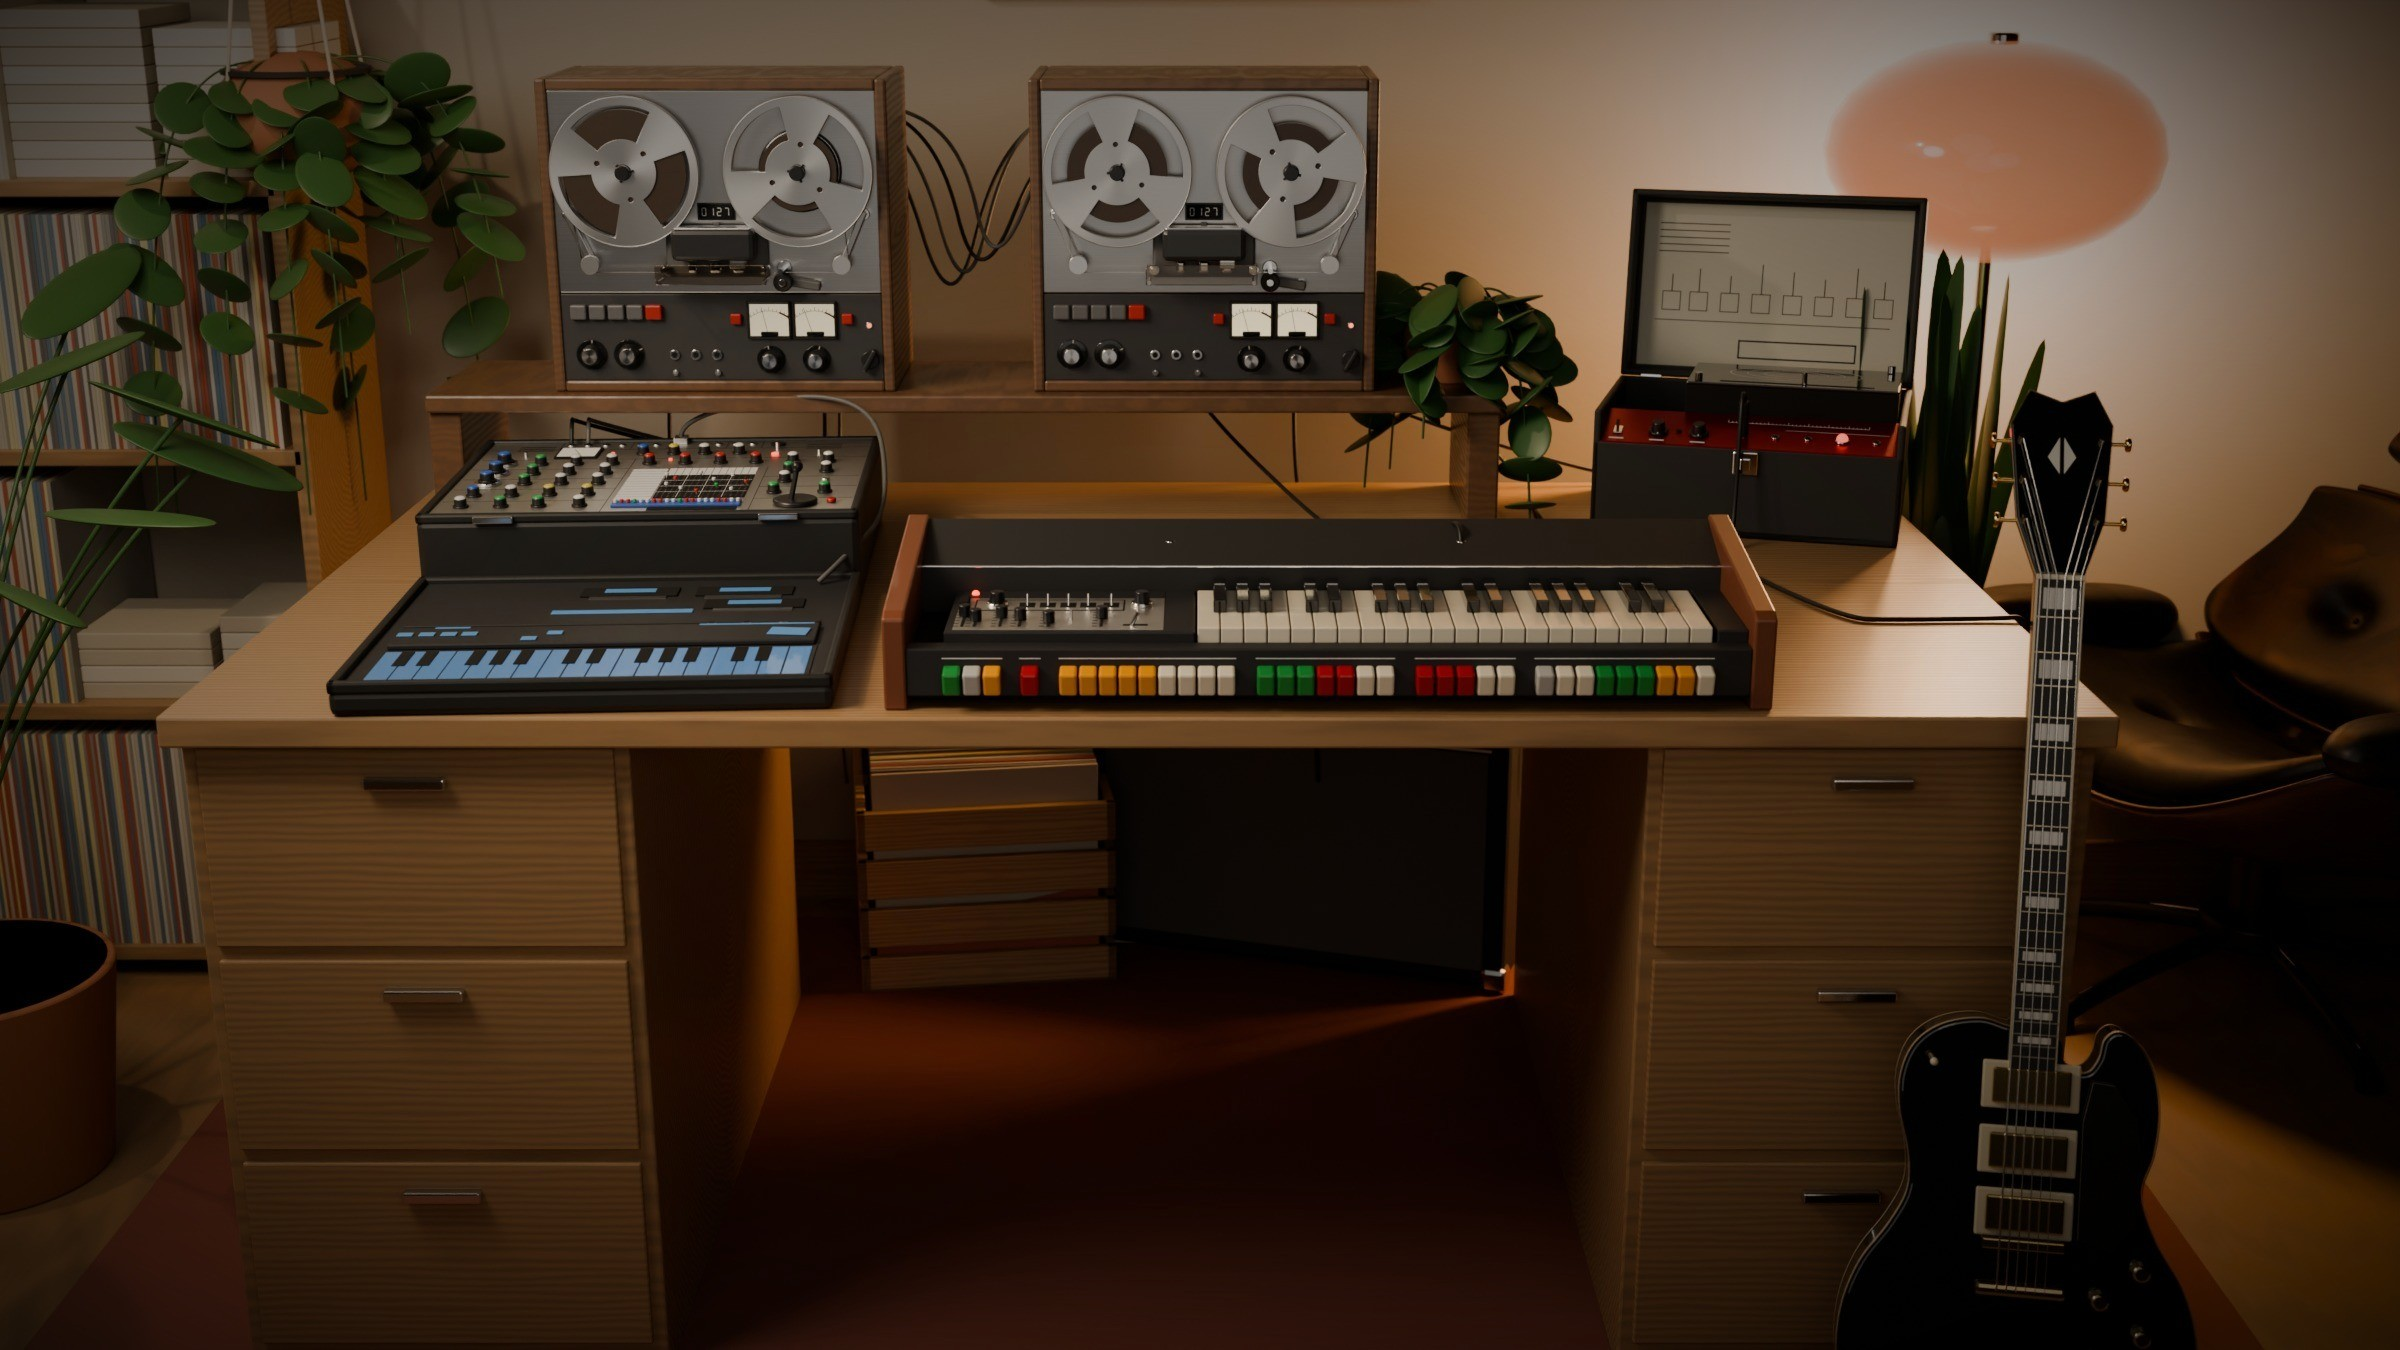
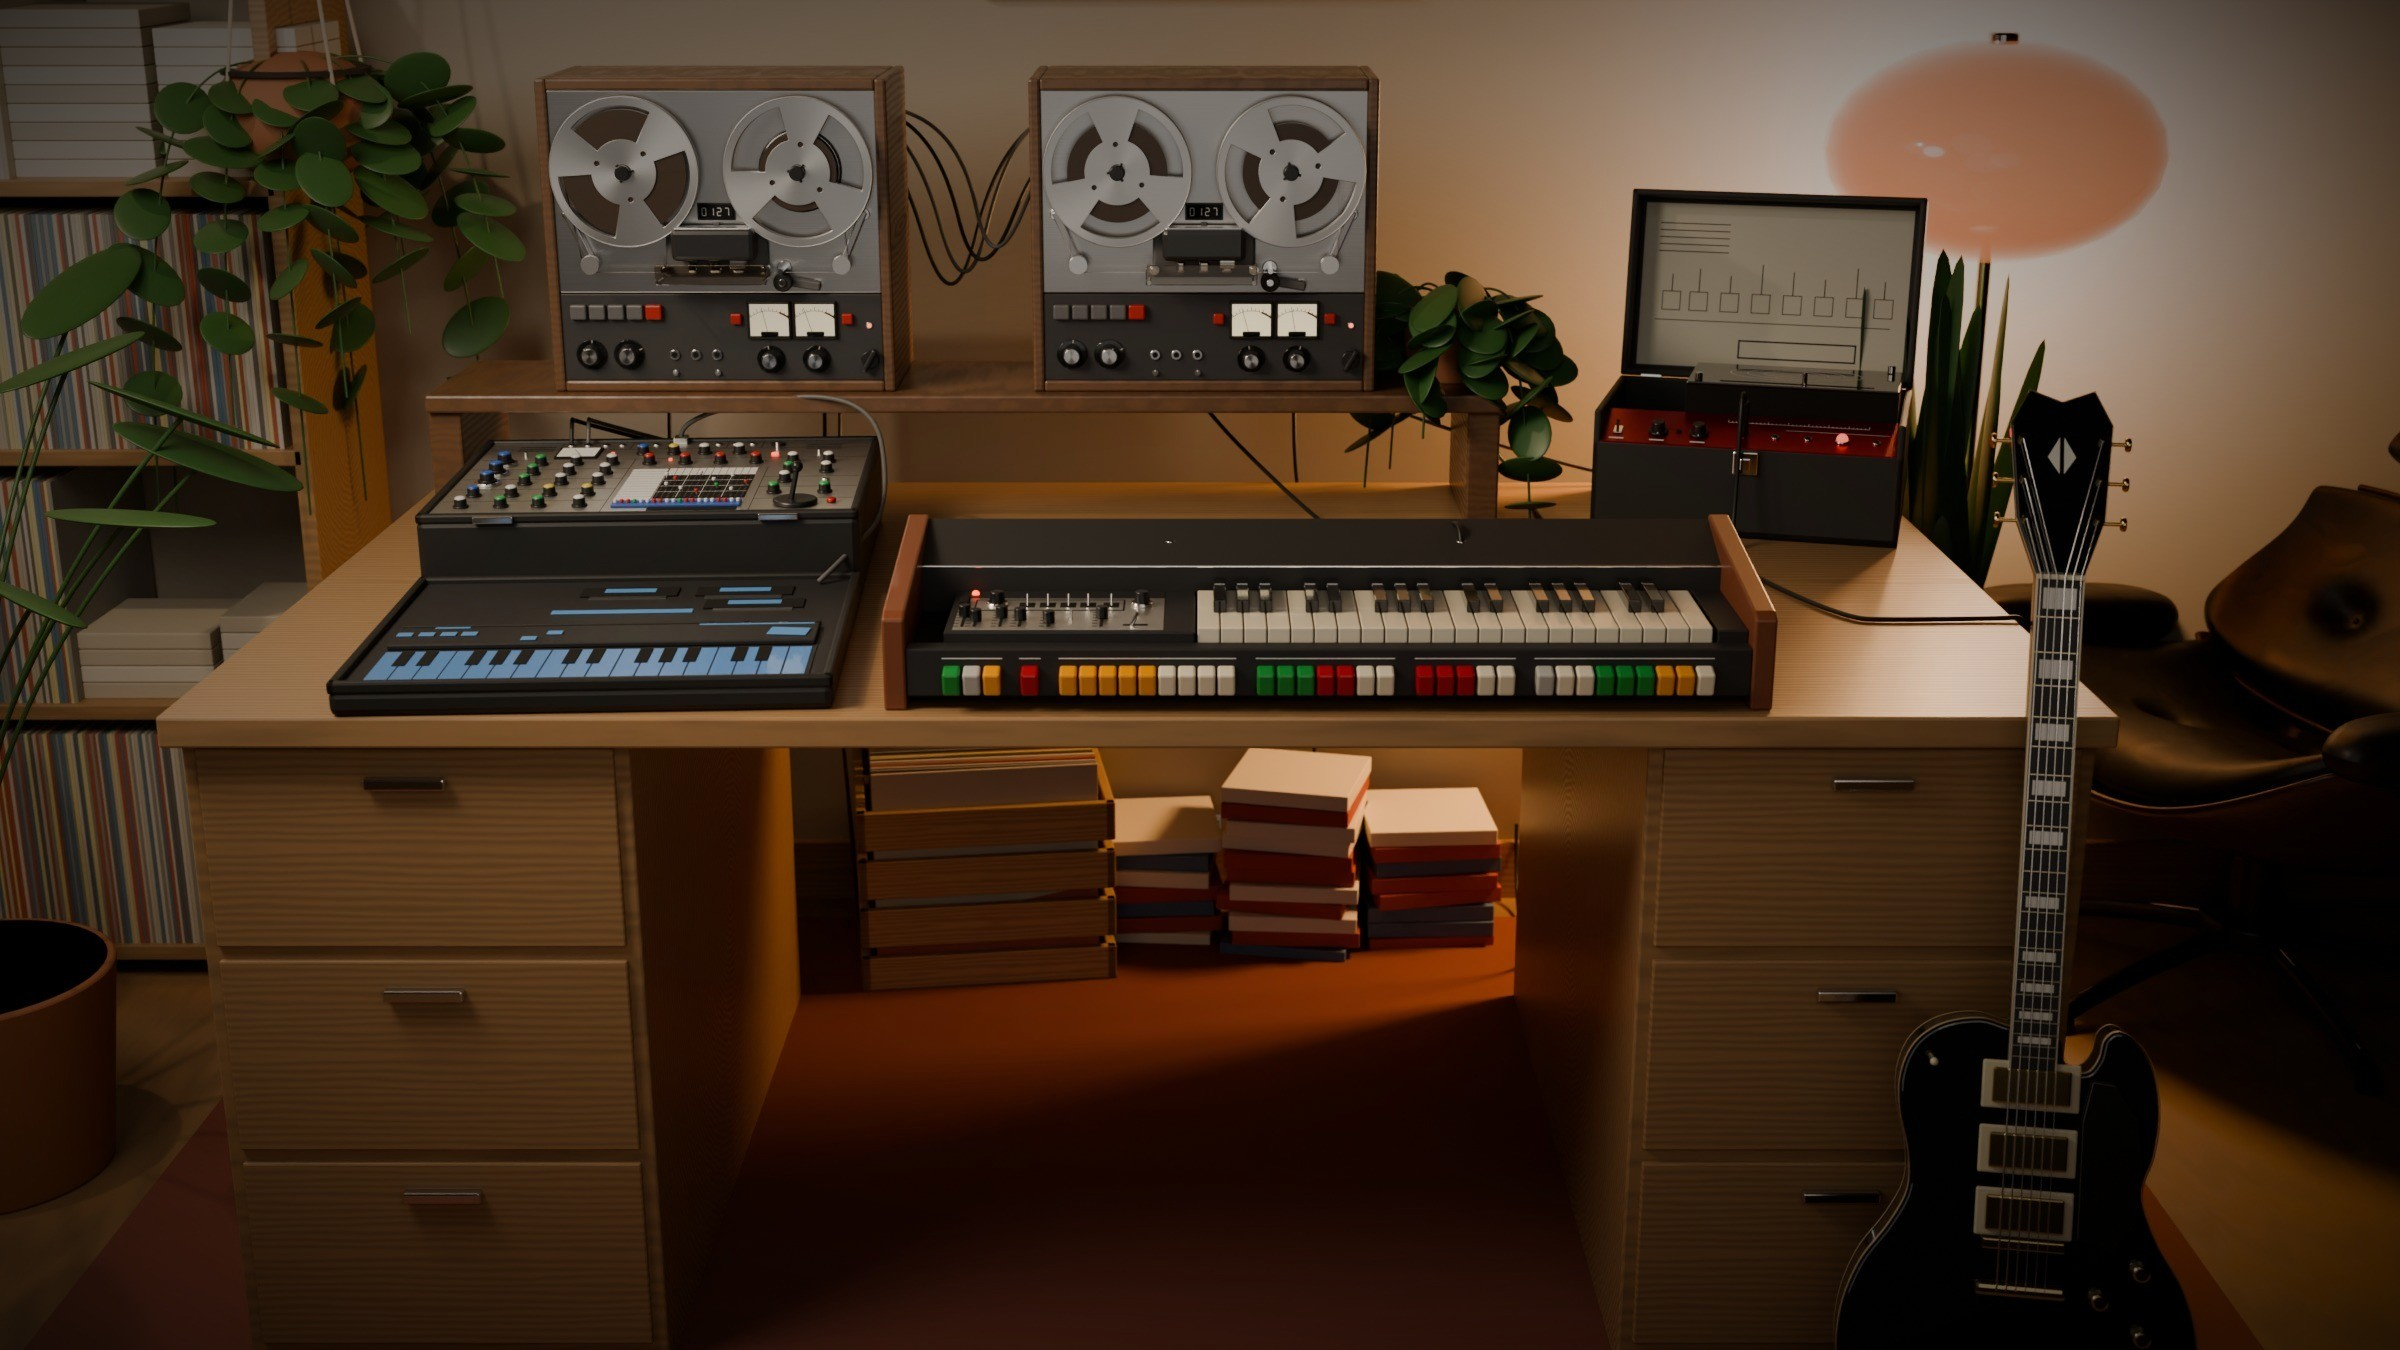
Story image: tape boxes behind the desk instead of the amp (it barely read); deck power cords run to the wall behind them

Changed region(s): [[0.3438, 0.5289, 0.6875, 0.8089]]

diff --git a/site/renders/studio.py b/site/renders/studio.py
@@ -1204,7 +1204,9 @@ def deck_pair(m, xs, y0, z0=DESK_Z):
         c0 = Vector((x - 120 * (1 if x < gx else -1), y0 + A77_D + 2, z0 + 40))
         cable("power_cord", [c0, c0 + Vector((0, 60, -20)), Vector((c0.x, DESK["y1"] - 10, DESK_Z + 4)),
                              Vector((c0.x + 20, DESK["y1"] + 30, DESK_Z - 60)),
-                             Vector((c0.x + 40, DESK["y1"] + 50, 300))], 2.8, m["cable"])
+                             # back along the desk's underside to the wall, behind the tape boxes
+                             Vector((c0.x + 35, WALL_Y - 40, DESK_Z - 90)), Vector((c0.x + 45, WALL_Y - 12, DESK_Z - 200)),
+                             Vector((c0.x + 50, WALL_Y - 10, 120))], 2.8, m["cable"])
     mid = Vector((gx, y0, DESK_Z + A77_H / 2))
     return dict(decks_center=mid, deck_a=a["center"], deck_b=b["center"], heads_a=a["heads"],
                 meters_a=a["meters"], decks_width=(xb - xa) + A77_W, gap_x=gx)
@@ -1757,7 +1759,9 @@ def tape_cross4():
                      Vector((xb - 60, 130 + A77_D, rz + 60))], 2.6, m["cable"])
     for p0 in (W(syn, (gear._px(685), gear.SY_D, 40)), W(echo, (100, gear.EC_D, 30)), W(sh, (300, gear.SH_D, 40))):
         cable("mains", [p0, p0 + Vector((0, 50, -25)), Vector((p0.x, DESK["y1"] - 15, DESK_Z + 4)),
-                        Vector((p0.x + 15, DESK["y1"] + 30, DESK_Z - 60)), Vector((p0.x + 30, DESK["y1"] + 45, 300))],
+                        Vector((p0.x + 15, DESK["y1"] + 30, DESK_Z - 60)), Vector((p0.x + 30, DESK["y1"] + 45, 300)),
+                        Vector((p0.x + 40, DESK["y1"] + 55, 40)), Vector((p0.x + 50, DESK["y1"] + 120, 6)),
+                        Vector((p0.x + 60, WALL_Y - 25, 6)), Vector((p0.x + 60, WALL_Y - 12, 120))],
               2.8, m["cable"])
     dim = float(os.environ.get("IV_STORY_DIM", STORY_DIM))
     # the removed desk lamp's light sat just left of deck A and glared on its left reel (owner,
@@ -1765,9 +1769,11 @@ def tape_cross4():
     bulb = Vector((-1500.0, -500.0, 2200.0))
     room_lights(bulb, A77_W, dim=dim)
     # behind the desk, seen through the knee hole (the lamp's light pooled on bare floor there)
-    combo_amp(m, (230.0, 580.0, 0.0), -18.0)
+    # (owner, 31 Oct: the amp barely read under the desk top; tape boxes in its place)
     lp_crate(m, (-260.0, 560.0, 0.0), 8.0)
     tape_box_stack(m, (-10.0, 640.0, 0.0), 7)
+    tape_box_stack(m, (200.0, 580.0, 0.0), 11, rot_deg=-8.0, seed=21)
+    tape_box_stack(m, (390.0, 620.0, 0.0), 8, rot_deg=6.0, seed=33)
     deck_lights(ref, dim=dim)
     # (the gear's own key light is gone: owner, 31 Oct, it glared in deck A's left reel; the
     # 1970s floor lamp at the right lights the desk instead)
